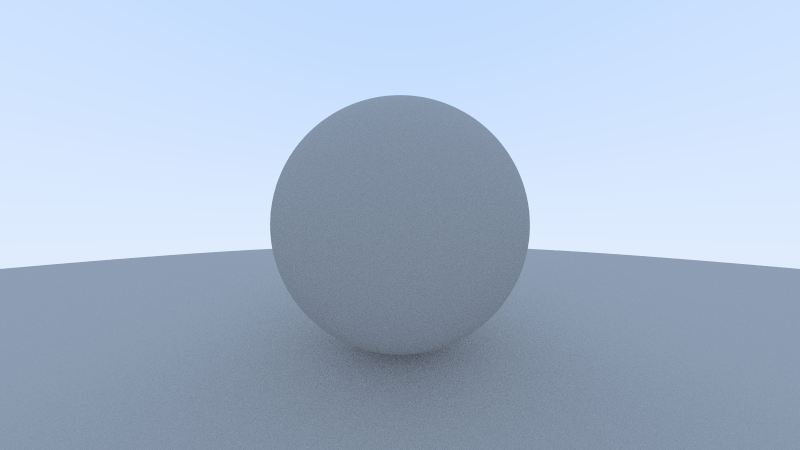
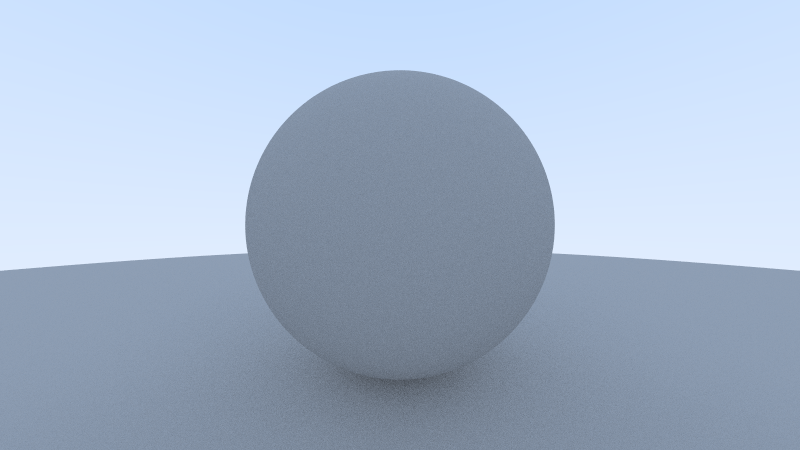
fov & better camera navigation

diff --git a/camera.py b/camera.py
@@ -1,3 +1,6 @@
+import math
+import numpy as np
+
 import taichi as ti
 import taichi.math as tm
 
@@ -9,13 +12,13 @@ vec3 = ti.types.vector(3, float)
 @ti.data_oriented
 class Camera:
     pixels: ti.Vector.field
+
     def __init__(
             self,
             samples_per_pixel: int,
             image_width: int,
             image_height: int,
-            focal_length: float,
-            view_height: float,
+            vfov: float,
             max_depth: int,
             gamma: float
     ):
@@ -24,32 +27,30 @@ class Camera:
         self.image_width = image_width
         self.image_height = image_height
 
-        self.focal_length = focal_length
-        self.view_height = view_height
+        self.vfov = vfov
 
         self.max_depth = max_depth
     
         self.gamma = gamma
-        
-        # ___________________________________________
-
-        self.view_width = self.view_height * (self.image_width / self.image_height)
+        self.focal_length = 1.0
 
         # use ti.Vector outside @ti scope
+        self.vup = ti.Vector([0.0, 1.0, 0.0])
+
         self.position = ti.Vector([0.0, 0.0, 0.0])
+        self.rotation = ti.Vector([0.0, 0.0, 1.0])      # camera normal (facing fowards)
 
-        self.view_u = ti.Vector([self.view_width, 0.0, 0.0])
-        self.view_v = ti.Vector([0.0, self.view_height, 0.0])
+        # ___________________________________________
 
-        self.pixel_delta_u = self.view_u / self.image_width
-        self.pixel_delta_v = self.view_v / self.image_height
+        theta = math.radians(vfov)
+        h = math.tan(theta / 2)
+        self.view_height = 2 * h * self.focal_length
+        self.view_width = self.view_height * (self.image_width / self.image_height)
 
-        self.view_upper_left = self.position - \
-            ti.Vector([0.0, 0.0, self.focal_length]) - \
-            (self.view_u / 2.0) - (self.view_v / 2.0)
-            
-        self.init_pixel_loc = self.view_upper_left + \
-            0.5 * (self.pixel_delta_u + self.pixel_delta_v)
+        self.yaw = 0.0
+        self.pitch = 0.0
+
+        self.update_view()
             
         self.pixels = ti.Vector.field(
             n=3,
@@ -60,45 +61,57 @@ class Camera:
             )
         )
     
-    def handle_motion(self, gui: ti.GUI):
-        # navigation
-        if gui.is_pressed('w'):
-            self.position[2] -= 0.05
-        if gui.is_pressed('s'):
-            self.position[2] += 0.05
-        if gui.is_pressed('a'):
-            self.position[0] -= 0.05
-        if gui.is_pressed('d'):
-            self.position[0] += 0.05
-        if gui.is_pressed('q'):
-            self.position[1] -= 0.05
-        if gui.is_pressed('e'):
-            self.position[1] += 0.05
-        
-        # rotation - broken rn fix later idk
-        # if gui.is_pressed(ti.GUI.LEFT):
-        #     self.view_u = rotate_about_y(self.view_u, 0.05)
-        #     self.view_v = rotate_about_y(self.view_v, 0.05)
-        # if gui.is_pressed(ti.GUI.RIGHT):
-        #     self.view_u = rotate_about_y(self.view_u, -0.05)
-        #     self.view_v = rotate_about_y(self.view_v, -0.05)
-        # if gui.is_pressed(ti.GUI.UP):
-        #     self.view_u = rotate_about_z(self.view_u, 0.05)
-        #     self.view_v = rotate_about_z(self.view_v, 0.05)
-        # if gui.is_pressed(ti.GUI.DOWN):
-        #     self.view_u = rotate_about_z(self.view_u, -0.05)
-        #     self.view_v = rotate_about_z(self.view_v, -0.05)
-        
-        # update view params
+    def update_view(self):
+        self.rotation = ti.Vector([
+            math.sin(self.yaw) * math.cos(self.pitch),
+            math.sin(self.pitch),
+            -math.cos(self.yaw) * math.cos(self.pitch)
+        ]).normalized()
+
+        self.yaw_basis = self.vup.cross(self.rotation).normalized()
+        self.pitch_basis = self.rotation.cross(self.yaw_basis).normalized()
+
+        self.view_u = self.view_width * self.yaw_basis
+        self.view_v = self.view_height * self.pitch_basis
+
         self.pixel_delta_u = self.view_u / self.image_width
         self.pixel_delta_v = self.view_v / self.image_height
 
         self.view_upper_left = self.position - \
-            ti.Vector([0.0, 0.0, self.focal_length]) - \
+            (self.focal_length * self.rotation) - \
             (self.view_u / 2.0) - (self.view_v / 2.0)
             
         self.init_pixel_loc = self.view_upper_left + \
             0.5 * (self.pixel_delta_u + self.pixel_delta_v)
+    
+    def handle_motion(self, gui: ti.GUI):
+        # navigation
+        if gui.is_pressed('w'):
+            self.position[2] += 0.1
+        if gui.is_pressed('s'):
+            self.position[2] -= 0.1
+        if gui.is_pressed('a'):
+            self.position[0] += 0.1
+        if gui.is_pressed('d'):
+            self.position[0] -= 0.1
+        if gui.is_pressed('e'):
+            self.position[1] += 0.1
+        if gui.is_pressed('q'):
+            self.position[1] -= 0.1
+        
+        # rotation
+        if gui.is_pressed(ti.GUI.LEFT):
+            self.yaw -= 0.05
+        if gui.is_pressed(ti.GUI.RIGHT):
+            self.yaw += 0.05
+        if gui.is_pressed(ti.GUI.UP):
+            self.pitch += 0.05
+            self.pitch = max(-math.radians(89), min(math.radians(89), self.pitch))
+        if gui.is_pressed(ti.GUI.DOWN):
+            self.pitch -= 0.05
+            self.pitch = max(-math.radians(89), min(math.radians(89), self.pitch))
+        
+        self.update_view()
 
     @ti.func
     def ray_color(

diff --git a/main.py b/main.py
@@ -22,8 +22,7 @@ def main():
         config["camera"]["samples"],
         config["camera"]["image_width"],
         config["camera"]["image_height"],
-        config["camera"]["focal_length"],
-        config["camera"]["view_height"],
+        config["camera"]["vfov"],
         config["camera"]["max_depth"],
         config["camera"]["gamma"]
     )
@@ -32,7 +31,7 @@ def main():
     world.add(Sphere(center=ti.Vector([0.0, 0.0, -1.0]), radius=0.5))
     world.add(Sphere(center=ti.Vector([0.0, -100.5, -1.0]), radius=100.0))
     
-    live = False
+    live = True
 
     if live:
         gui = ti.GUI(

diff --git a/hittable.py b/hittable.py
@@ -71,6 +71,7 @@ class HittableList():
 
         return hit, final_rec
 
+
 # hittable
 @ti.dataclass
 class Sphere():